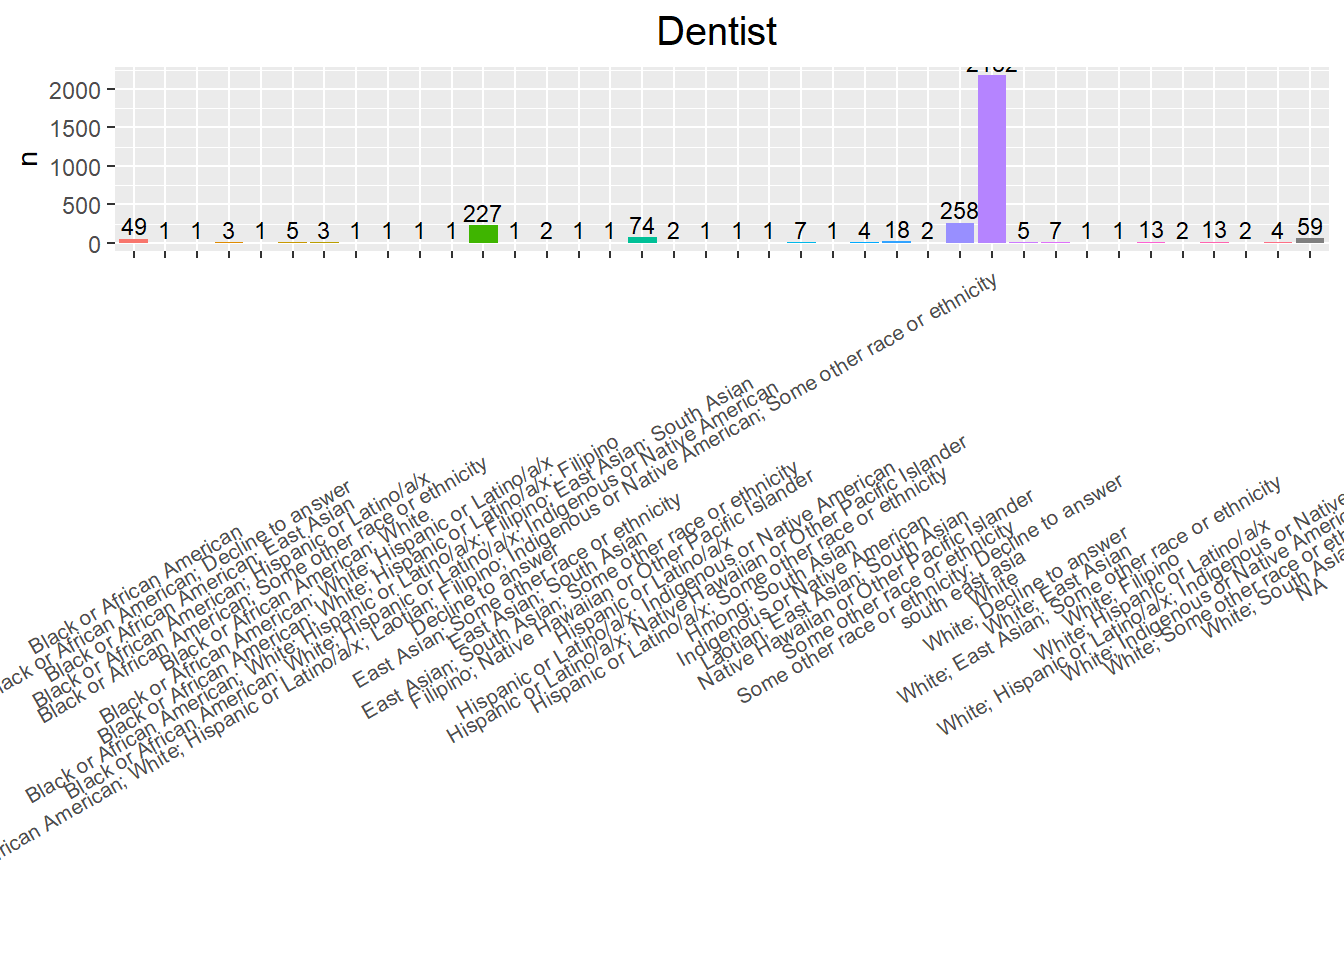
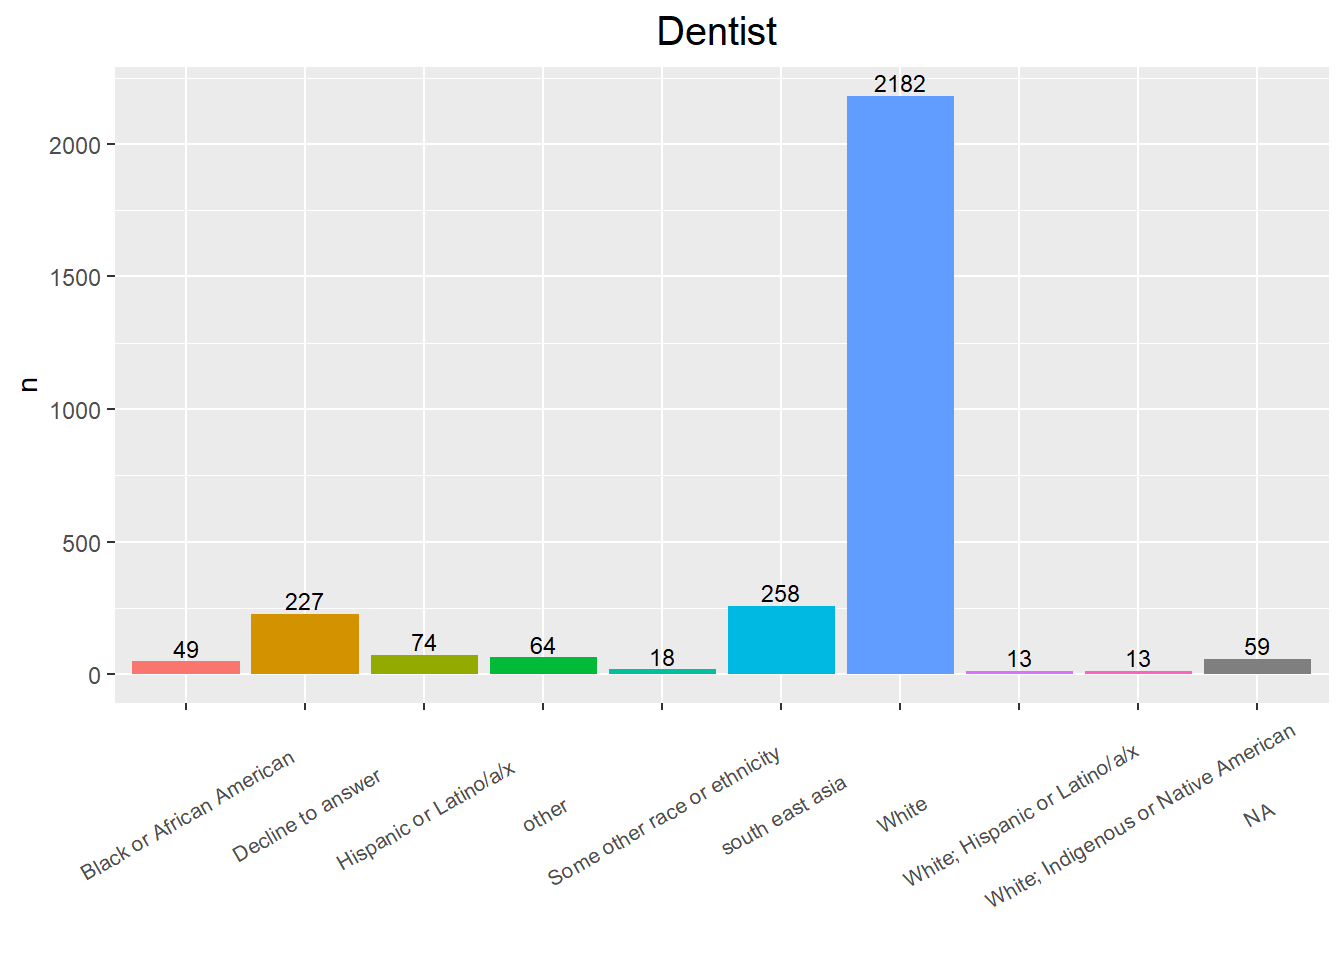
8/8/2024

diff --git a/docs/2024_0701_survey.html b/docs/2024_0701_survey.html
@@ -414,7 +414,7 @@ aria-hidden="true"></span> </a>
 <div class="tab-content">
 <div id="summary" class="tab-pane fade in active">
 <p>
-<strong>Last updated:</strong> 2024-08-07
+<strong>Last updated:</strong> 2024-08-08
 </p>
 <p>
 <strong>Checks:</strong> <span
@@ -574,15 +574,15 @@ analysis/Rfunctions.R
 <div class="panel panel-default">
 <div class="panel-heading">
 <p class="panel-title">
-<a data-toggle="collapse" data-parent="#workflowr-checks" href="#strongRepositoryversionstrongahrefhttpsgithubcomhan16Collaborationstreed2b6989234f39215aa94b73a95f4ff8c7fdff404targetblankd2b6989a">
+<a data-toggle="collapse" data-parent="#workflowr-checks" href="#strongRepositoryversionstrongahrefhttpsgithubcomhan16Collaborationstree2956e89c5a5f85cb71064cd35e8e9104f930b686targetblank2956e89a">
 <span class="glyphicon glyphicon-ok text-success"
 aria-hidden="true"></span> <strong>Repository version:</strong>
-<a href="https://github.com/han16/Collaborations/tree/d2b6989234f39215aa94b73a95f4ff8c7fdff404" target="_blank">d2b6989</a>
+<a href="https://github.com/han16/Collaborations/tree/2956e89c5a5f85cb71064cd35e8e9104f930b686" target="_blank">2956e89</a>
 </a>
 </p>
 </div>
 <div
[2 lines of base64/hex data omitted]
 class="panel-collapse collapse">
 <div class="panel-body">
 <p>
@@ -592,7 +592,7 @@ reproducibility.
 </p>
 <p>
 The results in this page were generated with repository version
-<a href="https://github.com/han16/Collaborations/tree/d2b6989234f39215aa94b73a95f4ff8c7fdff404" target="_blank">d2b6989</a>.
+<a href="https://github.com/han16/Collaborations/tree/2956e89c5a5f85cb71064cd35e8e9104f930b686" target="_blank">2956e89</a>.
 See the <em>Past versions</em> tab to see a history of the changes made
 to the R Markdown and HTML files.
 </p>
@@ -658,6 +658,57 @@ Message
 </tr>
 </thead>
 <tbody>
+<tr>
+<td>
+Rmd
+</td>
+<td>
+<a href="https://github.com/han16/Collaborations/blob/2956e89c5a5f85cb71064cd35e8e9104f930b686/analysis/2024_0701_survey.Rmd" target="_blank">2956e89</a>
+</td>
+<td>
+han
+</td>
+<td>
+2024-08-08
+</td>
+<td>
+8/8/2024
+</td>
+</tr>
+<tr>
+<td>
+Rmd
+</td>
+<td>
+<a href="https://github.com/han16/Collaborations/blob/b35bcf81cc03c42e81fa6167918def7089483a4d/analysis/2024_0701_survey.Rmd" target="_blank">b35bcf8</a>
+</td>
+<td>
+han
+</td>
+<td>
+2024-08-07
+</td>
+<td>
+8/7/2024
+</td>
+</tr>
+<tr>
+<td>
+html
+</td>
+<td>
+<a href="https://rawcdn.githack.com/han16/Collaborations/b35bcf81cc03c42e81fa6167918def7089483a4d/docs/2024_0701_survey.html" target="_blank">b35bcf8</a>
+</td>
+<td>
+han
+</td>
+<td>
+2024-08-07
+</td>
+<td>
+8/7/2024
+</td>
+</tr>
 <tr>
 <td>
 Rmd
@@ -877,6 +928,7 @@ south_east_asia=c(&quot;East Asian&quot;, &quot;Filipino&quot;, &quot;Hmong&quot
 south_east_asia_race= race %&gt;% filter(`Describe Your Race or Ethnicity` %in% south_east_asia)
 race_new=race %&gt;% filter(`Describe Your Race or Ethnicity` %in% south_east_asia==F) %&gt;% add_row(`Describe Your Race or Ethnicity`=&quot;south east asia&quot;, n=south_east_asia_race %&gt;% select(n) %&gt;% sum(), prop=south_east_asia_race %&gt;% select(prop) %&gt;% sum()) # combine south east asia countries into one unit 
 
+
 ggplot(race_new, aes(x=`Describe Your Race or Ethnicity`, y=n, fill=`Describe Your Race or Ethnicity`)) +geom_bar(position = &quot;dodge&quot;, stat=&quot;identity&quot;)+
  # ylim(c(0, 0.7))+
   ylab(&quot;n&quot;)+xlab(&quot;&quot;)+
@@ -1011,6 +1063,10 @@ datatable(extensions = &#39;Buttons&#39;,
                                              c(10,25,50,&quot;All&quot;))))</code></pre>
 <div class="datatables html-widget html-fill-item" id="htmlwidget-9eceb20dc2a931752ae4" style="width:100%;height:auto;"></div>
 <script type="application/json" data-for="htmlwidget-9eceb20dc2a931752ae4">{"x":{"filter":"none","vertical":false,"extensions":["Buttons"],"caption":"<caption><\/caption>","data":[["1","2","3","4","5","6","7","8","9"],["Black or African American","Decline to answer","Hispanic or Latino/a/x","Indigenous or Native American","Native Hawaiian or Other Pacific Islander","Some other race or ethnicity","White",null,"south east asia"],[31,170,81,15,1,13,3557,57,66],[0.0078,0.0426,0.0203,0.0038,0.0003,0.0033,0.8913,0.0143,0.0167]],"container":"<table class=\"display\">\n  <thead>\n    <tr>\n      <th> <\/th>\n      <th>Describe Your Race or Ethnicity<\/th>\n      <th>n<\/th>\n      <th>prop<\/th>\n    <\/tr>\n  <\/thead>\n<\/table>","options":{"dom":"Blfrtip","buttons":["copy","csv","excel","pdf","print"],"lengthMenu":[[10,25,50,-1],["10","25","50","All"]],"columnDefs":[{"className":"dt-right","targets":[2,3]},{"orderable":false,"targets":0},{"name":" ","targets":0},{"name":"Describe Your Race or Ethnicity","targets":1},{"name":"n","targets":2},{"name":"prop","targets":3}],"order":[],"autoWidth":false,"orderClasses":false},"selection":{"mode":"multiple","selected":null,"target":"row","selectable":null}},"evals":[],"jsHooks":[]}</script>
+<ul>
+<li><code>south east asia</code> includes “East Asian”, “Filipino”,
+“Hmong”, “Laotian”, “South Asian”</li>
+</ul>
 </div>
 <div id="gender-identity" class="section level3">
 <h3>Gender Identity</h3>
@@ -1167,17 +1223,19 @@ variables</code></pre>
 [40] &quot;Gender Identity&quot;                        </code></pre>
 <div id="race-or-ethnicity-1" class="section level3">
 <h3>Race or Ethnicity</h3>
-<pre class="r"><code>race=Dentist_Survey$`Dentist Survey` %&gt;% dplyr::count(`Describe Your Race or Ethnicity`) %&gt;% mutate(prop=round(n/nrow(Dental_Hygienist$`Dental H`),4))
+<pre class="r"><code>race=Dentist_Survey$`Dentist Survey` %&gt;% dplyr::count(`Describe Your Race or Ethnicity`) %&gt;% mutate(prop=round(n/nrow(Dentist_Survey$`Dentist Survey`),4))
 south_east_asia=c(&quot;East Asian&quot;, &quot;Filipino&quot;, &quot;Hmong&quot;, &quot;Laotian&quot;, &quot;South Asian&quot;) # define south east asia countries 
 south_east_asia_race= race %&gt;% filter(`Describe Your Race or Ethnicity` %in% south_east_asia)
 race_new=race %&gt;% filter(`Describe Your Race or Ethnicity` %in% south_east_asia==F) %&gt;% add_row(`Describe Your Race or Ethnicity`=&quot;south east asia&quot;, n=south_east_asia_race %&gt;% select(n) %&gt;% sum(), prop=south_east_asia_race %&gt;% select(prop) %&gt;% sum()) # combine south east asia countries into one unit 
 
-ggplot(race_new, aes(x=`Describe Your Race or Ethnicity`, y=n, fill=`Describe Your Race or Ethnicity`)) +geom_bar(position = &quot;dodge&quot;, stat=&quot;identity&quot;)+
+race_new2=race_new %&gt;% filter(n&gt;10)  %&gt;% add_row(`Describe Your Race or Ethnicity`=&quot;other&quot;, n=race_new %&gt;% filter(n&lt;=10) %&gt;% select(n) %&gt;% sum(), prop=race_new %&gt;% filter(n&lt;=10) %&gt;% select(prop) %&gt;% sum()) # aggregate categories with n&lt;=10 
+
+ggplot(race_new2, aes(x=`Describe Your Race or Ethnicity`, y=n, fill=`Describe Your Race or Ethnicity`)) +geom_bar(position = &quot;dodge&quot;, stat=&quot;identity&quot;)+
  # ylim(c(0, 0.7))+
   ylab(&quot;n&quot;)+xlab(&quot;&quot;)+
   theme(legend.position=&quot;&quot;)+
   theme(axis.text.x = element_text(angle = 30, vjust = 0.5, size=8))+
-  geom_text(aes(label=race_new$n), position=position_dodge(width=0.9), vjust=-0.25, size=3)+  # add numbers over bars
+  geom_text(aes(label=race_new2$n), position=position_dodge(width=0.9), vjust=-0.25, size=3)+  # add numbers over bars
   ggtitle(&quot;Dentist &quot;)+
   theme(plot.title = element_text(hjust = 0.5, size=15))  #center the title</code></pre>
 <p><img src="figure/2024_0701_survey.Rmd/unnamed-chunk-7-1.png" width="672" style="display: block; margin: auto;" /></p>
@@ -1205,6 +1263,17 @@ Date
 <tbody>
 <tr>
 <td>
+<a href="https://github.com/han16/Collaborations/blob/b35bcf81cc03c42e81fa6167918def7089483a4d/docs/figure/2024_0701_survey.Rmd/unnamed-chunk-7-1.png" target="_blank">b35bcf8</a>
+</td>
+<td>
+han
+</td>
+<td>
+2024-08-07
+</td>
+</tr>
+<tr>
+<td>
 <a href="https://github.com/han16/Collaborations/blob/d2b6989234f39215aa94b73a95f4ff8c7fdff404/docs/figure/2024_0701_survey.Rmd/unnamed-chunk-7-1.png" target="_blank">d2b6989</a>
 </td>
 <td>
@@ -1218,12 +1287,12 @@ han
 </table>
 </div>
 </div>
-<pre class="r"><code>ggplot(race_new, aes(x=`Describe Your Race or Ethnicity`, y=prop, fill=`Describe Your Race or Ethnicity`)) +geom_bar(position = &quot;dodge&quot;, stat=&quot;identity&quot;)+
+<pre class="r"><code>ggplot(race_new2, aes(x=`Describe Your Race or Ethnicity`, y=prop, fill=`Describe Your Race or Ethnicity`)) +geom_bar(position = &quot;dodge&quot;, stat=&quot;identity&quot;)+
  # ylim(c(0, 0.7))+
   ylab(&quot;%&quot;)+xlab(&quot;&quot;)+
   theme(legend.position=&quot;&quot;)+
   theme(axis.text.x = element_text(angle = 30, vjust = 0.5, size=8))+
-  geom_text(aes(label=race_new$prop*100), position=position_dodge(width=0.9), vjust=-0.25, size=3)+  # add numbers over bars
+  geom_text(aes(label=race_new2$prop*100), position=position_dodge(width=0.9), vjust=-0.25, size=3)+  # add numbers over bars
   ggtitle(&quot;Dentist &quot;)+
   theme(plot.title = element_text(hjust = 0.5, size=15))  #center the title</code></pre>
 <p><img src="figure/2024_0701_survey.Rmd/unnamed-chunk-7-2.png" width="672" style="display: block; margin: auto;" /></p>
@@ -1251,6 +1320,17 @@ Date
 <tbody>
 <tr>
 <td>
+<a href="https://github.com/han16/Collaborations/blob/b35bcf81cc03c42e81fa6167918def7089483a4d/docs/figure/2024_0701_survey.Rmd/unnamed-chunk-7-2.png" target="_blank">b35bcf8</a>
+</td>
+<td>
+han
+</td>
+<td>
+2024-08-07
+</td>
+</tr>
+<tr>
+<td>
 <a href="https://github.com/han16/Collaborations/blob/d2b6989234f39215aa94b73a95f4ff8c7fdff404/docs/figure/2024_0701_survey.Rmd/unnamed-chunk-7-2.png" target="_blank">d2b6989</a>
 </td>
 <td>
@@ -1264,7 +1344,7 @@ han
 </table>
 </div>
 </div>
-<pre class="r"><code>race_new%&gt;%
+<pre class="r"><code>race_new2%&gt;%
 datatable(extensions = &#39;Buttons&#39;,
           caption = &quot;&quot;,
             options = list(dom = &#39;Blfrtip&#39;,
@@ -1272,11 +1352,17 @@ datatable(extensions = &#39;Buttons&#39;,
                            lengthMenu = list(c(10,25,50,-1),
                                              c(10,25,50,&quot;All&quot;))))</code></pre>
 <div class="datatables html-widget html-fill-item" id="htmlwidget-b85bf888dc62471906a9" style="width:100%;height:auto;"></div>
-<script type="application/json" data-for="htmlwidget-b85bf888dc62471906a9">{"x":{"filter":"none","vertical":false,"extensions":["Buttons"],"caption":"<caption><\/caption>","data":[["1","2","3","4","5","6","7","8","9","10","11","12","13","14","15","16","17","18","19","20","21","22","23","24","25","26","27","28","29","30","31","32","33","34","35","36","37","38"],["Black or African American","Black or African American; Decline to answer","Black or African American; East Asian","Black or African American; Hispanic or Latino/a/x","Black or African American; Some other race or ethnicity","Black or African American; White","Black or African American; White; Hispanic or Latino/a/x","Black or African American; White; Hispanic or Latino/a/x; Filipino","Black or African American; White; Hispanic or Latino/a/x; Filipino; East Asian; South Asian","Black or African American; White; Hispanic or Latino/a/x; Indigenous or Native American","Black or African American; White; Hispanic or Latino/a/x; Laotian; Filipino; Indigenous or Native American; Some other race or ethnicity","Decline to answer","East Asian; Some other race or ethnicity","East Asian; South Asian","East Asian; South Asian; Some other race or ethnicity","Filipino; Native Hawaiian or Other Pacific Islander","Hispanic or Latino/a/x","Hispanic or Latino/a/x; Indigenous or Native American","Hispanic or Latino/a/x; Native Hawaiian or Other Pacific Islander","Hispanic or Latino/a/x; Some other race or ethnicity","Hmong; South Asian","Indigenous or Native American","Laotian; East Asian; South Asian","Native Hawaiian or Other Pacific Islander","Some other race or ethnicity","Some other race or ethnicity; Decline to answer","White","White; Decline to answer","White; East Asian","White; East Asian; Some other race or ethnicity","White; Filipino","White; Hispanic or Latino/a/x","White; Hispanic or Latino/a/x; Indigenous or Native American","White; Indigenous or Native American","White; Some other race or ethnicity","White; South Asian",null,"south east asia"],[49,1,1,3,1,5,3,1,1,1,1,227,1,2,1,1,74,2,1,1,1,7,1,4,18,2,2182,5,7,1,1,13,2,13,2,4,59,258],[0.0123,0.0003,0.0003,0.0008,0.0003,0.0013,0.0008,0.0003,0.0003,0.0003,0.0003,0.0569,0.0003,0.0005,0.0003,0.0003,0.0185,0.0005,0.0003,0.0003,0.0003,0.0018,0.0003,0.001,0.0045,0.0005,0.5467,0.0013,0.0018,0.0003,0.0003,0.0033,0.0005,0.0033,0.0005,0.001,0.0148,0.06470000000000001]],"container":"<table class=\"display\">\n  <thead>\n    <tr>\n      <th> <\/th>\n      <th>Describe Your Race or Ethnicity<\/th>\n      <th>n<\/th>\n      <th>prop<\/th>\n    <\/tr>\n  <\/thead>\n<\/table>","options":{"dom":"Blfrtip","buttons":["copy","csv","excel","pdf","print"],"lengthMenu":[[10,25,50,-1],["10","25","50","All"]],"columnDefs":[{"className":"dt-right","targets":[2,3]},{"orderable":false,"targets":0},{"name":" ","targets":0},{"name":"Describe Your Race or Ethnicity","targets":1},{"name":"n","targets":2},{"name":"prop","targets":3}],"order":[],"autoWidth":false,"orderClasses":false},"selection":{"mode":"multiple","selected":null,"target":"row","selectable":null}},"evals":[],"jsHooks":[]}</script>
+<script type="application/json" data-for="htmlwidget-b85bf888dc62471906a9">{"x":{"filter":"none","vertical":false,"extensions":["Buttons"],"caption":"<caption><\/caption>","data":[["1","2","3","4","5","6","7","8","9","10"],["Black or African American","Decline to answer","Hispanic or Latino/a/x","Some other race or ethnicity","White","White; Hispanic or Latino/a/x","White; Indigenous or Native American",null,"south east asia","other"],[49,227,74,18,2182,13,13,59,258,64],[0.0166,0.07679999999999999,0.025,0.0061,0.7379,0.0044,0.0044,0.02,0.0872,0.0213]],"container":"<table class=\"display\">\n  <thead>\n    <tr>\n      <th> <\/th>\n      <th>Describe Your Race or Ethnicity<\/th>\n      <th>n<\/th>\n      <th>prop<\/th>\n    <\/tr>\n  <\/thead>\n<\/table>","options":{"dom":"Blfrtip","buttons":["copy","csv","excel","pdf","print"],"lengthMenu":[[10,25,50,-1],["10","25","50","All"]],"columnDefs":[{"className":"dt-right","targets":[2,3]},{"orderable":false,"targets":0},{"name":" ","targets":0},{"name":"Describe Your Race or Ethnicity","targets":1},{"name":"n","targets":2},{"name":"prop","targets":3}],"order":[],"autoWidth":false,"orderClasses":false},"selection":{"mode":"multiple","selected":null,"target":"row","selectable":null}},"evals":[],"jsHooks":[]}</script>
+<ul>
+<li><p><code>south east asia</code> includes “East Asian”, “Filipino”,
+“Hmong”, “Laotian”, “South Asian”</p></li>
+<li><p><code>other</code> aggregates categories with less than 10
+responses.</p></li>
+</ul>
 </div>
 <div id="gender-identity-1" class="section level3">
 <h3>Gender Identity</h3>
-<pre class="r"><code>gender=Dentist_Survey$`Dentist Survey` %&gt;% dplyr::count(`Gender Identity`) %&gt;% mutate(prop=round(n/nrow(Dental_Hygienist$`Dental H`),4))
+<pre class="r"><code>gender=Dentist_Survey$`Dentist Survey` %&gt;% dplyr::count(`Gender Identity`) %&gt;% mutate(prop=round(n/nrow(Dentist_Survey$`Dentist Survey`),4))
 
 ggplot(gender, aes(x=`Gender Identity`, y=n, fill=`Gender Identity`)) +geom_bar(position = &quot;dodge&quot;, stat=&quot;identity&quot;)+
  # ylim(c(0, 0.7))+
@@ -1378,7 +1464,7 @@ datatable(extensions = &#39;Buttons&#39;,
                            lengthMenu = list(c(10,25,50,-1),
                                              c(10,25,50,&quot;All&quot;))))</code></pre>
 <div class="datatables html-widget html-fill-item" id="htmlwidget-88fdd2a34d502a66744b" style="width:100%;height:auto;"></div>
-<script type="application/json" data-for="htmlwidget-88fdd2a34d502a66744b">{"x":{"filter":"none","vertical":false,"extensions":["Buttons"],"caption":"<caption><\/caption>","data":[["1","2","3","4","5","6"],["Decline to answer","Man","Option not listed above","Transgender","Woman",null],[109,1764,3,1,1025,55],[0.0273,0.442,0.0008,0.0003,0.2568,0.0138]],"container":"<table class=\"display\">\n  <thead>\n    <tr>\n      <th> <\/th>\n      <th>Gender Identity<\/th>\n      <th>n<\/th>\n      <th>prop<\/th>\n    <\/tr>\n  <\/thead>\n<\/table>","options":{"dom":"Blfrtip","buttons":["copy","csv","excel","pdf","print"],"lengthMenu":[[10,25,50,-1],["10","25","50","All"]],"columnDefs":[{"className":"dt-right","targets":[2,3]},{"orderable":false,"targets":0},{"name":" ","targets":0},{"name":"Gender Identity","targets":1},{"name":"n","targets":2},{"name":"prop","targets":3}],"order":[],"autoWidth":false,"orderClasses":false},"selection":{"mode":"multiple","selected":null,"target":"row","selectable":null}},"evals":[],"jsHooks":[]}</script>
+<script type="application/json" data-for="htmlwidget-88fdd2a34d502a66744b">{"x":{"filter":"none","vertical":false,"extensions":["Buttons"],"caption":"<caption><\/caption>","data":[["1","2","3","4","5","6"],["Decline to answer","Man","Option not listed above","Transgender","Woman",null],[109,1764,3,1,1025,55],[0.0369,0.5966,0.001,0.0003,0.3466,0.0186]],"container":"<table class=\"display\">\n  <thead>\n    <tr>\n      <th> <\/th>\n      <th>Gender Identity<\/th>\n      <th>n<\/th>\n      <th>prop<\/th>\n    <\/tr>\n  <\/thead>\n<\/table>","options":{"dom":"Blfrtip","buttons":["copy","csv","excel","pdf","print"],"lengthMenu":[[10,25,50,-1],["10","25","50","All"]],"columnDefs":[{"className":"dt-right","targets":[2,3]},{"orderable":false,"targets":0},{"name":" ","targets":0},{"name":"Gender Identity","targets":1},{"name":"n","targets":2},{"name":"prop","targets":3}],"order":[],"autoWidth":false,"orderClasses":false},"selection":{"mode":"multiple","selected":null,"target":"row","selectable":null}},"evals":[],"jsHooks":[]}</script>
 <br>
 <p>
 <button type="button" class="btn btn-default btn-workflowr btn-workflowr-sessioninfo" data-toggle="collapse" data-target="#workflowr-sessioninfo" style="display: block;">
